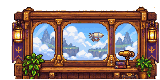
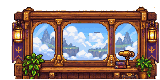
chore: materialize 0696D1S real airship motion repair [skip ci]

Changed region(s): [[0.5312, 0.4, 0.6562, 0.525]]

diff --git a/src/Cardcha/Services/AirshipAmbientAnimationService.cs b/src/Cardcha/Services/AirshipAmbientAnimationService.cs
@@ -6,10 +6,10 @@ using StardewValley;
 namespace Cardcha.Services;
 
 /// <summary>
-/// 0696D1R isolated Window recovery plus existing Console ambient renderer.
-/// Window returns to the approved 0690 ownership contract: static physical body in TMX,
-/// four independent transparent moving-sky overlays at runtime. D2 will rebuild the
-/// season/time/weather matrix only after Ron accepts this bounded source repair.
+/// 0696D1S isolated Window motion repair plus existing Console ambient renderer.
+/// The physical Window body remains map-native. Runtime moves one extracted real airship
+/// sprite only; legacy overlay_2..4 window/transition slices are never animated.
+/// D2 will rebuild the season/time/weather matrix after Ron accepts this motion contract.
 /// </summary>
 internal static class AirshipAmbientAnimationService
 {
@@ -20,17 +20,18 @@ internal static class AirshipAmbientAnimationService
     private static long LightningUntilMs;
     private static int LightningVariant;
 
-    // 0696D1R: preserve the approved 0690 contract. The physical Window body is map-native;
-    // runtime cycles four independent transparent 160x80 moving-sky overlays. D2 will later
-    // rebuild season/time/weather behavior from this accepted clean source.
-    private static readonly string[] D1RWindowOverlayPaths =
+    // 0696D1S: the four legacy Window overlays are NOT four airship frames.
+    // Only this extracted airship sprite moves. The Window frame/body stays map-native.
+    private const string D1SAirshipPath =
+        "assets/airship_props/set01_redux/window_runtime/observation_window_airship.png";
+    private static readonly Point[] D1SAirshipPositions =
     {
-        "assets/airship_props/set01_redux/observation_window_overlay_1.png",
-        "assets/airship_props/set01_redux/observation_window_overlay_2.png",
-        "assets/airship_props/set01_redux/observation_window_overlay_3.png",
-        "assets/airship_props/set01_redux/observation_window_overlay_4.png",
+        new(62, 33),
+        new(71, 33),
+        new(80, 33),
+        new(89, 33),
     };
-    private const long D1RWindowFrameDurationMs = 450L;
+    private const long D1SAirshipFrameDurationMs = 550L;
 
     public static bool DrawDeckAmbient(SpriteBatch batch)
     {
@@ -57,12 +58,31 @@ internal static class AirshipAmbientAnimationService
         AirshipObservationWindowConfig config = manifest.ObservationWindow;
         Vector2 propTopLeft = WorldToScreen(config.WorldAnchor.TileX * 64f, config.WorldAnchor.TileY * 64f);
 
-        int frameIndex = (int)((clockMs / D1RWindowFrameDurationMs) % D1RWindowOverlayPaths.Length);
-        string overlayPath = D1RWindowOverlayPaths[frameIndex];
+        Texture2D? airship = GetTexture(D1SAirshipPath);
+        if (airship is null)
+            return false;
 
-        // The TMX already owns the full physical body. Draw only one repaired transparent
-        // moving-sky overlay. Never crop, repack, shift or hollow the Window body here.
-        return DrawLegacyFullOverlay(batch, overlayPath, propTopLeft, depth: 0.8845f);
+        int frameIndex = (int)((clockMs / D1SAirshipFrameDurationMs) % D1SAirshipPositions.Length);
+        Point pos = D1SAirshipPositions[frameIndex];
+
+        // Draw only the real airship sprite. Never draw legacy overlay_2..4 here: those files
+        // are window/transition slices and made the pillar appear to fly across the sky.
+        batch.Draw(
+            airship,
+            new Rectangle(
+                (int)propTopLeft.X + pos.X * 4,
+                (int)propTopLeft.Y + pos.Y * 4,
+                airship.Width * 4,
+                airship.Height * 4
+            ),
+            null,
+            Color.White,
+            0f,
+            Vector2.Zero,
+            SpriteEffects.None,
+            0.8845f
+        );
+        return true;
     }
 
     private static bool DrawNavigationConsole(SpriteBatch batch, long clockMs)

diff --git a/src/Cardcha/ModEntry.cs b/src/Cardcha/ModEntry.cs
@@ -397,7 +397,7 @@ internal sealed class ModEntry : Mod
         WorldPhysicalOverlaySafetyPatch.Apply(harmony, this.Monitor);
 
         this.Monitor.Log(
-            "Cardcha! 0.3.0-alpha.28.0.4.14.4.5.12.67 0686 HOLLOW CURATOR ARCHIVE RULE ADAPTATION TEST",
+            "Cardcha! 0.3.0-alpha.28.0.4.14.4.5.12.68 0686 HOLLOW CURATOR ARCHIVE RULE ADAPTATION TEST",
             LogLevel.Info
         );
     }

diff --git a/handoff/LATEST_CARDCHA_HANDOFF.md b/handoff/LATEST_CARDCHA_HANDOFF.md
@@ -3,42 +3,26 @@
 Updated: 2026-09-12
 
 ## Current workstream
-`cardcha-alpha28-0696d1-observation-window-source-cleanup`
+`cardcha-alpha28-0696d1s-airship-motion-repair`
 
 Current build candidate:
-`0.3.0-alpha.28.0.4.14.4.5.12.67`
+`0.3.0-alpha.28.0.4.14.4.5.12.68`
 
 Current handoff:
-`handoff/ALPHA28_0696D1R_WINDOW_BOUNDED_CLEANUP.md`
-
-## Verified D1R checkpoint
-- Materialized source: `8fe52dfc23ec58b00138c4b129d91a3dd9121d81`
-- Successful CI run: `34702756885`
-- Artifact ID: `10300676229`
-- Artifact digest: `sha256:29682998ce4c19d76cace6f9541d4d8045594664ce761898fac7729ac1db205e`
[1 lines of base64/hex data omitted]
-- Technical validation: **PASS**
-- Visual acceptance: **PENDING-RON-VISUAL**
+`handoff/ALPHA28_0696D1S_AIRSHIP_MOTION_REPAIR.md`
 
 ## Status
-- 0696D1 `.65`: **VISUAL REJECTED by Ron** for clipping/hollowing/bleed.
-- D1R internal `.66`: technically passed, but self-review caught three detached edge fragments before release.
-- D1R `.67`: final bounded source pass.
-- Exact pale matte cleanup removed 2558 pixels.
-- Detached left-edge bleed removed 101 pixels in three components: 59 px bbox `[0,63,5,79]`, 38 px bbox `[0,33,3,51]`, and 4 px bbox `[0,8,1,12]`.
-- Remaining detached edge components: **0**.
-- Main Window component remains intact at bbox `[11,6,159,79]` with 9977 pixels.
-- Four approved animation overlays remain four independent 160x80 files.
-- Overlay export-mask repair removed pure-black masks `[0,2324,2072,1820]` pixels from frames 1..4; remaining opaque pure-black pixels: **0**.
-- No crop, shift, strip packing, or aperture cutout.
-- Runtime ownership is restored to the approved 0690 contract: TMX owns the static body; runtime cycles the four repaired transparent overlays.
-- Navigation Console remains D3; season/time/weather matrix remains D2.
+- 0696D1 `.65`: visual rejected for clipping/hollowing/bleed.
+- 0696D1R `.67`: source/alpha geometry repaired, but Ron caught a semantic animation bug: overlay 2–4 are window-column/transition slices, not airship frames.
+- 0696D1S `.68`: removes legacy overlay cycling and animates one extracted real airship sprite across the center pane.
+- Window furniture/body remains map-native and static.
+- D2 season/time/weather matrix and D3 Navigation Console remain deferred.
+- Visual acceptance: **PENDING-RON-VISUAL**.
 
 ## Continuation order
-1. 0696D1R Window bounded source/overlay cleanup — **TECH PASS / VISUAL PENDING**
+1. 0696D1S Real Airship Motion Repair — current acceptance gate
 2. 0696D2 Window Environment Matrix Rebuild
 3. 0696D3 Navigation Console Source Cleanup
 4. 0696D4 Deck Integration & Acceptance
 
-## Non-negotiable rule
-Do not proceed to D2 until Ron accepts the Window source geometry and alpha behavior. Technical PASS never equals visual PASS.
+Do not proceed to D2 until Ron accepts the actual airship motion.

diff --git a/handoff/ALPHA28_0696D1S_AIRSHIP_MOTION_REPAIR.md b/handoff/ALPHA28_0696D1S_AIRSHIP_MOTION_REPAIR.md
@@ -1,0 +1,26 @@
+# Alpha 28 / 0696D1S — Real Airship Motion Repair
+
+## Status
+- Branch: `cardcha-alpha28-0696d1s-airship-motion-repair`
+- Build: `0.3.0-alpha.28.0.4.14.4.5.12.68`
+- Visual acceptance: **PENDING-RON-VISUAL**
+
+## Root cause
+D1R incorrectly interpreted `observation_window_overlay_1..4.png` as four animation frames. They are not. Overlay 1 contains the visible sky/airship scene, while overlays 2–4 are window/transition slices. Cycling them therefore made vertical window columns appear to fly across the view.
+
+## D1S correction
+- legacy four-overlay cycling is completely disabled;
+- the real airship is extracted from the approved `.67` Window source as one transparent sprite;
+- the original static airship placement is patched out of the map-native Window source;
+- runtime moves only that airship sprite across four center-pane positions;
+- no window pillar, frame, plant, lamp, telescope or scenery slice is animated;
+- D2 season/time/weather matrix is still deferred.
+
+## Evidence
+- extracted sprite size: **15x9**
+- extracted opaque sprite pixels: **84**
+- runtime positions: **[(62, 33), (71, 33), (80, 33), (89, 33)]**
+- old overlay cycling active: **FALSE**
+
+## Next gate
+Ron checks the D1S preview/TEST. If the airship motion is visually accepted, proceed to D2 and apply the same independent-airship concept to the season/time/weather matrix.
